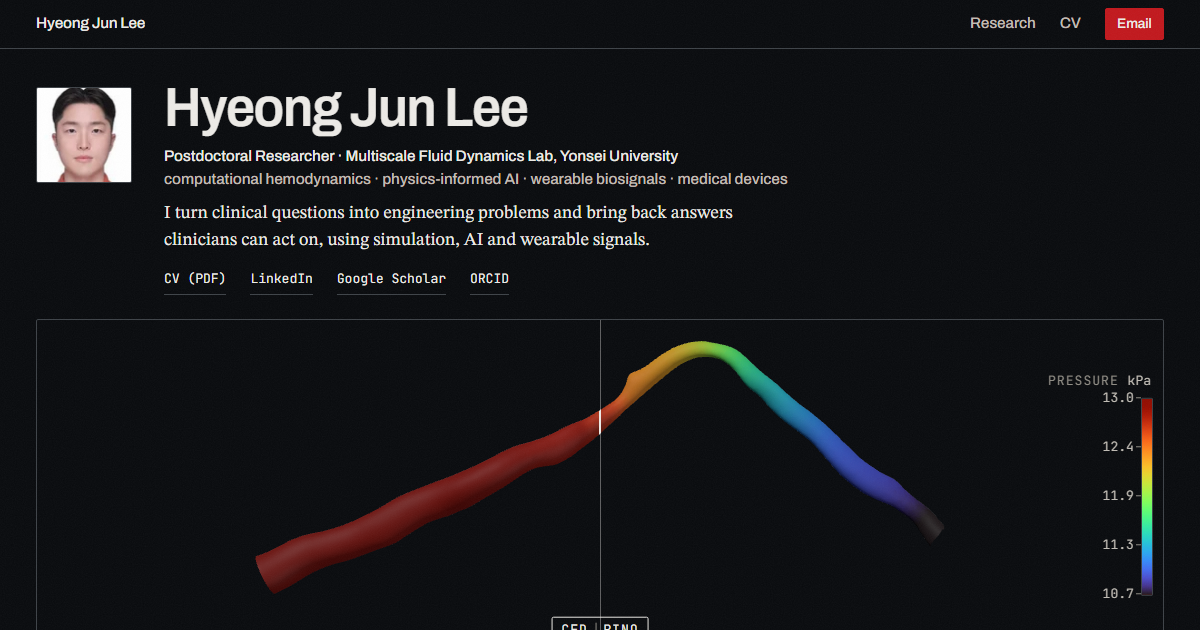
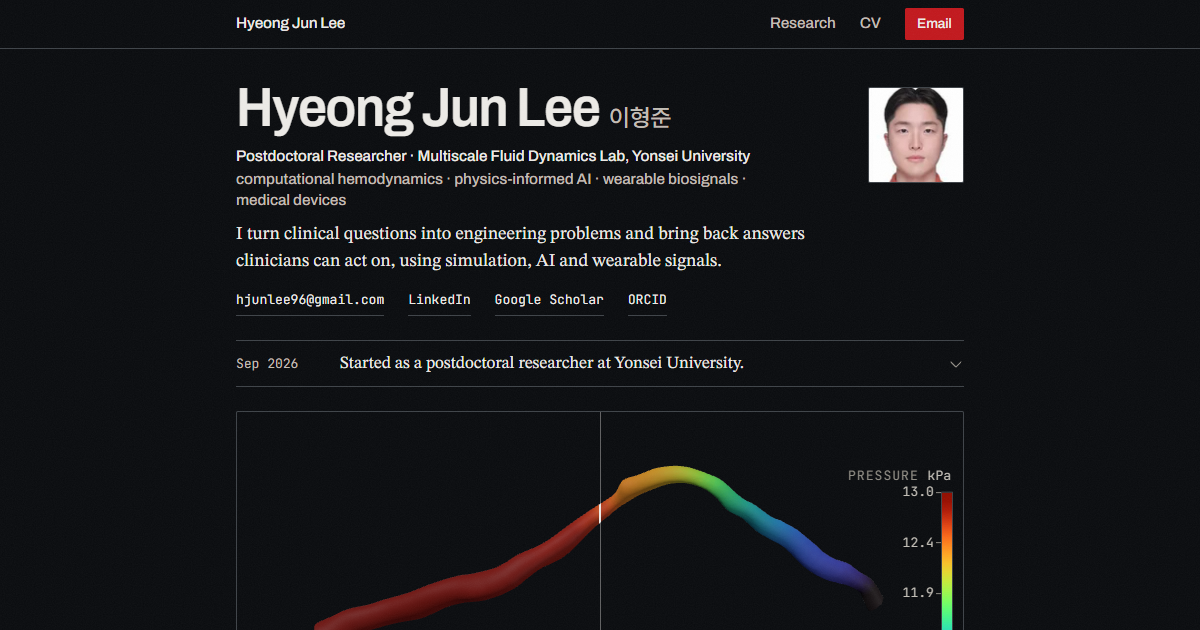
Docs and OG: identifier out of comments, images regenerated, title rule
The demo case's identifier leaves the comments and docs (Frame, the vessel
viewer, the colour scale, DESIGN.md, PRODUCT.md, the home surface notes and
design.json); the manifest and centerline data keep it as the record's name.
The three Open Graph cards are captured again from the merged build.
CLAUDE.md gains the rules that project titles carry no parenthetical status
label and that /research runs newest first by start year, demos first.

After the merge of defects: the CWT strip, mounted inside its closed
Method and metrics row, finishes there, so opening the bolus row shows it
whole instead of a 4 s develop; the one Replay still develops both strips
and reduced motion still paints them at once. Smoke checks it (57 checks).
Under 22rem a project title hyphenates, since the shorter platform title
ran 3 px past the screen at 195 px.

diff --git a/site/src/islands/SpectrogramDevelop.tsx b/site/src/islands/SpectrogramDevelop.tsx
@@ -4,7 +4,9 @@
   over ~4 s the first time the frame is in view, a thin bone playhead rides
   the developing edge with a mono time readout, and a Replay ghost button
   runs it again. Reduced motion paints the whole strip at once, Replay
-  included.
+  included. Mounted inside a closed <details> (the bolus fold), the strip is
+  finished as soon as its data is here, so opening the fold shows it whole
+  instead of starting a develop; Replay still runs the full develop.
 
   replayGroup: plates that develop side by side share one Replay control
   placed once by the page. With a group the island prints no button of its
@@ -121,6 +123,8 @@ function SpectrogramCore({
   const lastTsRef = useRef(0);
   const elapsedRef = useRef(0);
   const startedRef = useRef(false);
+  /* Set at mount: a closed <details> holds the island, so it finishes instead of developing on first view. */
+  const foldedRef = useRef(false);
 
   const [status, setStatus] = useState<Status>('loading');
   const [attempt, setAttempt] = useState(0);
@@ -212,10 +216,12 @@ function SpectrogramCore({
     };
   }, [paint, raster]);
 
-  /* First visibility. */
+  /* First visibility; and, at mount, whether a closed <details> holds the island. */
   useEffect(() => {
     const el = rootRef.current;
     if (!el) return;
+    const fold = el.closest('details');
+    foldedRef.current = Boolean(fold && !fold.open);
     if (!('IntersectionObserver' in window)) {
       setVisible(true);
       return;
@@ -274,11 +280,11 @@ function SpectrogramCore({
   /* Replay, own button or page-level: under reduced motion it paints the finished strip, as the first develop does. */
   const replay = useCallback(() => (prefersReducedMotion() ? finish() : run()), [finish, run]);
 
-  /* Start once: data ready and the frame in view. */
+  /* Start once: data ready and the frame in view, or at once (finished) when it mounted in a closed fold. */
   useEffect(() => {
-    if (status !== 'ready' || !visible || startedRef.current) return;
+    if (status !== 'ready' || startedRef.current || !(visible || foldedRef.current)) return;
     startedRef.current = true;
-    if (!develop || prefersReducedMotion()) finish();
+    if (!develop || foldedRef.current || prefersReducedMotion()) finish();
     else run();
   }, [status, visible, develop, finish, run]);
 

diff --git a/site/src/islands/vessel/colors.ts b/site/src/islands/vessel/colors.ts
@@ -39,7 +39,7 @@ export const ERROR_STEP_PA = 500;
 /*
   The fixed symmetric error scale in Pa: the 99th percentile of |p_err|
   (manifest p_err_abs_max) rounded up to the next ERROR_STEP_PA. For
-  PINO-DEMO-01 that is 512.6 Pa → 1 000 Pa (±1.0 kPa).
+  the demo case that is 512.6 Pa → 1 000 Pa (±1.0 kPa).
 */
 export function errorScalePa(r: Pick<LegendRanges, 'p_err_abs_max'>): number {
   const p99 = Math.abs(r.p_err_abs_max);

diff --git a/site/src/islands/VesselViewer.tsx b/site/src/islands/VesselViewer.tsx
@@ -1,5 +1,5 @@
 /*
-  VesselViewer: the PINO-DEMO-01 coronary vessel, pressure-painted, read
+  VesselViewer: the demo case's coronary vessel, pressure-painted, read
   through a vertical CFD | PINO wipe.
 
   Public API

diff --git a/.impeccable/surfaces/site-src-pages-index-astro.md b/.impeccable/surfaces/site-src-pages-index-astro.md
@@ -11,7 +11,7 @@ Scope: whole-site rebuild in Astro. Visitor mode: Experience on `/` and `/resear
 
 Audience and job: overseas researchers (PIs, search committees) and medical-device / medical-AI companies deciding whether to write to Hyeong Jun Lee; clinical collaborators second. Job: in 60 seconds, learn what he does, what he has led, and reach him. Actions that count as success (owner, equal weight): email, CV download, open a paper.
 
-Proof on hand: a real patient-specific coronary vessel with CFD and PINO pressure/velocity fields (website_assets/pino, case PINO-DEMO-01, current GINO-backbone model, 85-patient 10-fold CV, unpublished); FFR readouts CFD 0.83 / PINO 0.824; inference 1.78 s on one L40S for ~80k nodes; STFT and CWT spectrograms from the fluid-bolus pipeline (website_assets/fluid_bolus) with aggregate metrics from the EAAI manuscript under revision; DMD 2026 proceedings DOI (first author); CMPB 2025 first-author paper; 16 patents (2 registered); 7 funded projects. Paper figures and conference photos in site/client/public/media.
+Proof on hand: a real patient-specific coronary vessel with CFD and PINO pressure/velocity fields (website_assets/pino, the demo case, current GINO-backbone model, 85-patient 10-fold CV, unpublished); FFR readouts CFD 0.83 / PINO 0.824; inference 1.78 s on one L40S for ~80k nodes; STFT and CWT spectrograms from the fluid-bolus pipeline (website_assets/fluid_bolus) with aggregate metrics from the EAAI manuscript under revision; DMD 2026 proceedings DOI (first author); CMPB 2025 first-author paper; 16 patents (2 registered); 7 funded projects. Paper figures and conference photos in site/client/public/media.
 
 Constraints: English only; author-role honesty (J2 first, J4 co-first, C1 first, J1/J3/C2 co-author, M1 first under revision); PINO metrics are labelled "current model, 85 cases, 10-fold CV", never the DMD paper's; the demo case is a well-predicted case (pressure R² 0.963, rank 13/85) and the cohort median (0.898) is shown beside it; CFD wall time is unknown, so no "hours to seconds" claim, only the measured 1.78 s; no patient identifiers; no testimonials, press or citation counts; static site on GitHub Pages from `site/` with output in `site/dist/public`.
 
@@ -29,7 +29,7 @@ OWN-WORLD: Film charcoal ground (cool near-black, never pure, with a fixed fine 
 
 STORY: A visitor lands inside a running frame: a vessel they could believe came from a patient, with a pressure field on it and FFR numbers in the corners. Within one scroll they learn he is a postdoc who makes coronary physics fast enough for clinical use, see three fronts (Flow, Image, Pulse) as further frames, see what he has led and filed, and write to him.
 
-FIRST VIEWPORT: Full-viewport cine frame on film charcoal. The vessel (WebGL, real mesh, pressure-colored, slow C-arm drift) fills the frame from left-center to right edge; a vertical colorbar on the right edge with Pa ticks. Mono corner readouts: top-left name and "Coronary hemodynamics · Physics-informed AI · Wearable PPG"; top-right "PINO-DEMO-01 · 8,649 nodes · 10.7–13.0 kPa"; bottom-right "FFR Pd/Pa 0.83 CFD · 0.82 PINO" and "inference 1.78 s · L40S"; bottom-left is the headline block: display "Coronary physics, fast enough for the clinic." (Archivo, ≤5.5rem), one STIX line naming the postdoc role, MFDL Yonsei and the YUHS 4D CT-FFR project, then two rectangular actions: "Email" (signal fill, primary) and "CV (PDF)" (bordered). A thin top chrome holds the name and Research / Publications / Record / CV. On load the PINO layer develops over the CFD field while the readout counts to 1.78 s; a draggable vertical wipe handle (labelled CFD | PINO) sits mid-frame and is the signature interaction, also driving the FFR curve and readouts. Mobile: the frame is portrait, headline below it, wipe becomes a two-state toggle.
+FIRST VIEWPORT: Full-viewport cine frame on film charcoal. The vessel (WebGL, real mesh, pressure-colored, slow C-arm drift) fills the frame from left-center to right edge; a vertical colorbar on the right edge with Pa ticks. Mono corner readouts: top-left name and "Coronary hemodynamics · Physics-informed AI · Wearable PPG"; top-right, for the demo case, "8,649 nodes · 10.7–13.0 kPa"; bottom-right "FFR Pd/Pa 0.83 CFD · 0.82 PINO" and "inference 1.78 s · L40S"; bottom-left is the headline block: display "Coronary physics, fast enough for the clinic." (Archivo, ≤5.5rem), one STIX line naming the postdoc role, MFDL Yonsei and the YUHS 4D CT-FFR project, then two rectangular actions: "Email" (signal fill, primary) and "CV (PDF)" (bordered). A thin top chrome holds the name and Research / Publications / Record / CV. On load the PINO layer develops over the CFD field while the readout counts to 1.78 s; a draggable vertical wipe handle (labelled CFD | PINO) sits mid-frame and is the signature interaction, also driving the FFR curve and readouts. Mobile: the frame is portrait, headline below it, wipe becomes a two-state toggle.
 
 FORM: Coronary angiogram light box / cine frame, candidate 6 of 7 on the ordered list, seed key 6687f113, code-led (build path delegated by the owner; code-led chosen because the artifact is live WebGL data).
 

diff --git a/DESIGN.md b/DESIGN.md
@@ -335,7 +335,7 @@ Every figure is computed from `content.ts` or a data manifest through `site/src/
 
 **The Even Weight Rule.** Headings carry one weight (600), UI 500, body 400. Rank is carried by size, measure and border ink, never by bolding.
 
-**The Unit Keeps Its Case Rule.** Uppercase is chrome for short identifiers (C1, PINO-DEMO-01) and tags; units and ratios are never uppercased or tracked.
+**The Unit Keeps Its Case Rule.** Uppercase is chrome for short identifiers (C1, J2) and tags; units and ratios are never uppercased or tracked.
 
 ## Layout
 
@@ -390,7 +390,7 @@ The first thing on home. A two-column grid on the left edge (a 6rem portrait col
 The one live proof on home, directly under the identity block.
 - A `Frame plate` holding the VesselViewer in quiet mode, hydrated `client:visible` and preloading nothing; height `min(44vh, 30rem)`, at least 18rem. Under 900px it goes portrait (3/4, at most 64svh). Under the canvas sits the poster, a server-rendered still of the same plate (`scripts/vessel-still.mjs`; 2:1, and 3:4 upright on phones), so the plate is never a blank film before the vessel draws or without JS; it leaves once the viewer is past loading.
 - **Quiet viewer:** the pressure field only, the CFD | PINO wipe handle centred (a two-state toggle on frames under 640px), the vertical colorbar with five ticks, the develop once (snapped under reduced motion); no field toggle, no orbit, no corner readouts, no FFR curve (the idle drift stays on); the vessel is cropped at the distal FFR probe plane and fitted to its bounding box.
-- **Caption (Astro, so the numbers are in the server HTML):** one mono line in ink-2 from `plateCaptionItems`, `PINO-DEMO-01 · 8 649 nodes · FFR CFD 0.83 · PINO 0.82`, each value pair a nowrap item (Revision 2b: case id, node count and FFR only; the 1.78 s and the 35-minute CFD bound are in proof line 2 and the sentence below, so the plate carries no timing line; `timingItems` / `timingLine` feed the Flow chapter's mono header line and the agent files); then, 0.35rem below, one STIX line (1rem, ink-2, 62ch), `plateSentence`: "The same vessel solved twice. CFD took up to 35 minutes on 64 cores. The neural operator took 1.78 seconds. Slide or toggle to compare." (numbers interpolated). No link: the Simulation row links to the Flow chapter.
+- **Caption (Astro, so the numbers are in the server HTML):** one mono line in ink-2 from `plateCaptionItems` (the demo case, then `8 649 nodes · FFR CFD 0.83 · PINO 0.82`), each value pair a nowrap item (Revision 2b: case id, node count and FFR only; the 1.78 s and the 35-minute CFD bound are in proof line 2 and the sentence below, so the plate carries no timing line; `timingItems` / `timingLine` feed the Flow chapter's mono header line and the agent files); then, 0.35rem below, one STIX line (1rem, ink-2, 62ch), `plateSentence`: "The same vessel solved twice. CFD took up to 35 minutes on 64 cores. The neural operator took 1.78 seconds. Slide or toggle to compare." (numbers interpolated). No link: the Simulation row links to the Flow chapter.
 - **Data:** the quiet plate downloads the manifest and `vessel.bin.gz` only (geometry, indices, both pressure fields, region; the error field is derived); the speed arrays are a second file the home never requests.
 
 ### Home rows (`pages/index.astro`)

diff --git a/PRODUCT.md b/PRODUCT.md
@@ -30,7 +30,7 @@ An engineer working inside medicine who turns clinical questions into engineerin
 - Hosting: GitHub Pages from `Good-day-commander/junlee.github.io` (branch `main`), custom domain hyeongjunlee.me via Cloudflare DNS. Deploy runs on every push to main.
 - The owner edits the site through AI agents (previously Manus) and writes in Korean; the site stays English.
 - Assets on hand: paper figures under `site/client/public/media/papers/extracted/`; DMD 2026 PINO figures (CFD vs prediction fields, R² 0.9646 scatter); conference photos (ACFM 2025 podium, DMD 2026, Yonsei symposium, CARDIOS discussion); posters and slides under `C:\Users\user\Desktop\junlee.github.io\학회\`; patent spreadsheets under `...\patent\`.
-- Received 2026-10-13/15: PINO case PINO-DEMO-01 (`website_assets/pino`, converted to `site/public/data/pino`), fluid-bolus spectrograms (`website_assets/fluid_bolus` → `site/public/data/pulse`), 4D CT phase renders from the J1 figure deck (`site/public/data/image`). Still requested: an environmental portrait, CARDIOS/EASYCHECK screenshots with an approved description, permission to link conference posters, any reviewing/membership items missing from the CV.
+- Received 2026-10-13/15: the PINO demo case (`website_assets/pino`, converted to `site/public/data/pino`), fluid-bolus spectrograms (`website_assets/fluid_bolus` → `site/public/data/pulse`), 4D CT phase renders from the J1 figure deck (`site/public/data/image`). Still requested: an environmental portrait, CARDIOS/EASYCHECK screenshots with an approved description, permission to link conference posters, any reviewing/membership items missing from the CV.
 
 ## Capabilities and Constraints
 

diff --git a/CLAUDE.md b/CLAUDE.md
@@ -32,6 +32,8 @@ The owner writes in Korean; the site stays English. Recipes for routine edits ar
 - Organ-agnostic framing: computational hemodynamics, physics-informed AI, wearable biosignals, medical devices. Never frame him as a coronary or CT researcher; coronary appears only where a coronary result is named.
 - Author-role honesty: J2 first, J4 co-first, C1 first, J1/J3/C2 co-author, M1 first author under revision. Never present co-authored work as led. Registered vs pending and presenter vs co-author stay explicit.
 - Precision: kPa one decimal; FFR two decimals in captions and readouts, three in metrics tables and for CFD-PINO differences; seconds two decimals; mm one decimal.
+- Project titles are noun phrases and carry no parenthetical status label ("(ongoing)", "(published)"); status belongs to the outputs line and the years.
+- `/research` orders projects newest first by start year; within a year the demo projects come first, then content.ts order (the comparator in `schema.ts`).
 - Fixed labels: PINO metrics read "current model, 85 cases, 10-fold CV", always. Manuscript status reads "manuscript under revision (EAAI)", printed once per entry (on /research it sits in the outputs line).
 - Never state a speed-up above "about 1,000x", never convert the CFD bound to hours, never extrapolate it to fewer cores.
 - Never fabricate testimonials, press, citation counts or download numbers.

diff --git a/MAINTENANCE.md b/MAINTENANCE.md
@@ -91,7 +91,7 @@ From `site/`:
 1. `pnpm install --frozen-lockfile` (first run, or after a lockfile change).
 2. `pnpm check`: 0 errors.
 3. `pnpm build`: ends with `budget: all checks passed.`
-3a. `pnpm smoke`: 56 checks, exit 0 (the same test CI runs before deploying).
+3a. `pnpm smoke`: 57 checks, exit 0 (the same test CI runs before deploying).
 4. `pnpm preview`, then in another shell `pnpm shots` (`SCHEMES=light` or `ROUTES=/,/research` to narrow). Inspect `.impeccable/review/` at desktop and mobile, light and dark: one left and one right edge, plates 2:1, drift running, no mono prose, no identifiers.
 5. From the repo root: `~/.claude/skills/impeccable/scripts/impeccable detect --json site/src/styles site/src/components site/src/layouts site/src/islands site/src/pages site/src/lib`. Fix every finding or record why it stays.
 6. Wire size of the home first load, against preview, each URL the home requests (DevTools Network lists them):
